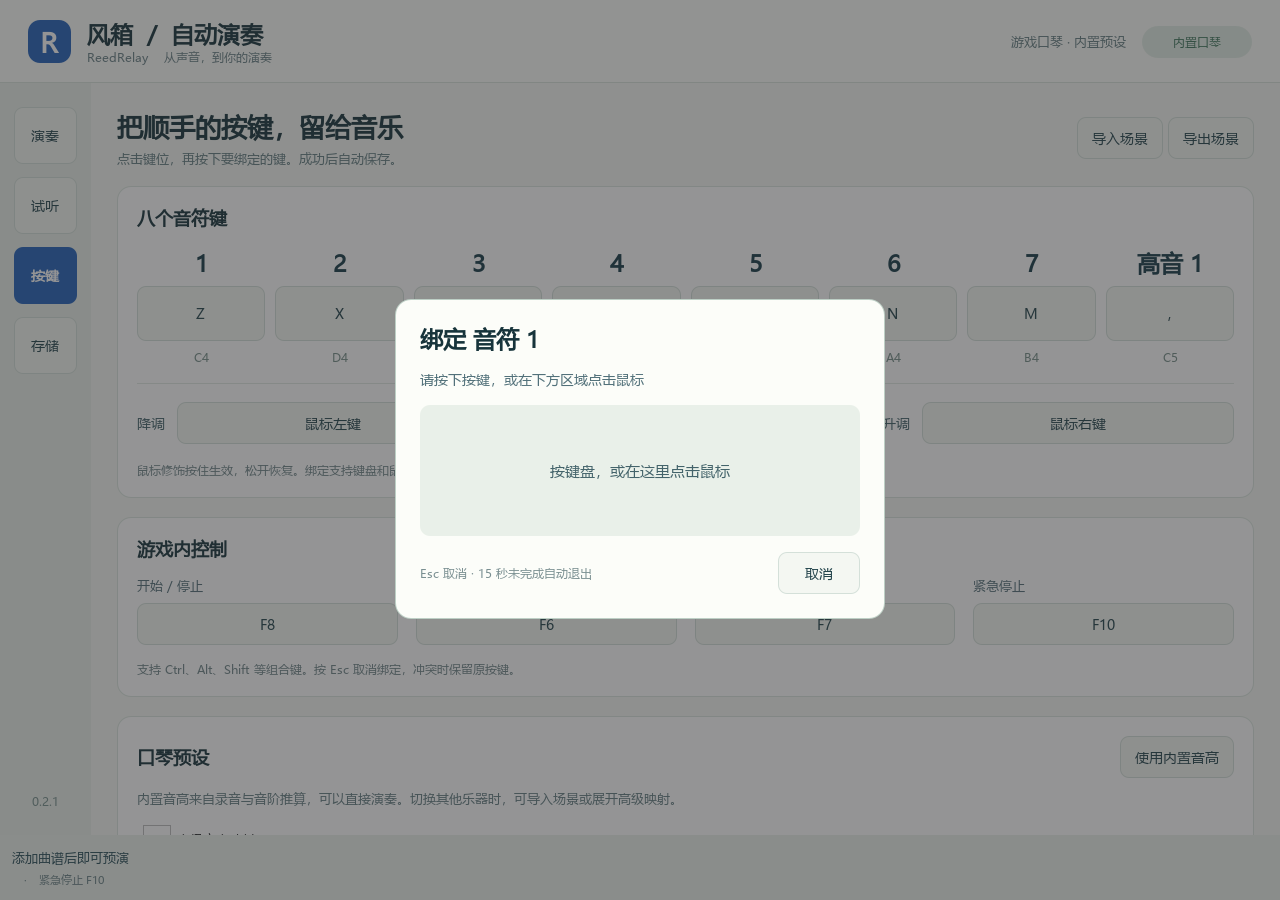
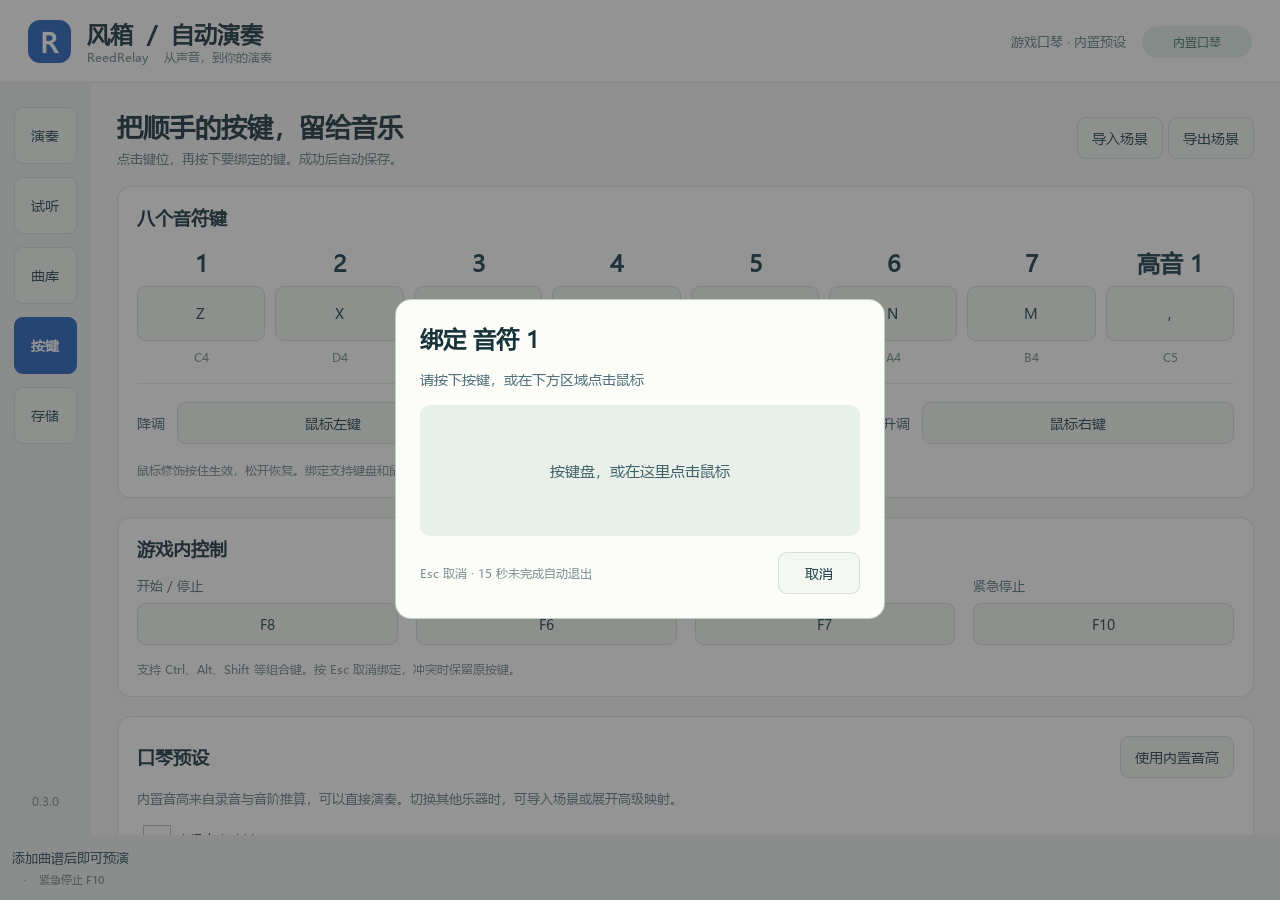
feat(ui): deliver 0.3.0 score library and direct MIDI playback

Changed region(s): [[0.0, 0.2489, 0.0625, 0.4356]]

diff --git a/src/reed_relay/ui/Library.qml b/src/reed_relay/ui/Library.qml
@@ -1,0 +1,88 @@
+import QtQuick
+import QtQuick.Controls
+import QtQuick.Layouts
+
+ScrollView {
+    id:page
+    signal requestMain()
+    signal requestAudition()
+    clip:true;contentWidth:availableWidth
+    property var entries: {
+        let query=search.text.trim().toLowerCase()
+        return bridge.libraryEntries.filter(function(song) { return !query || (song.title+" "+song.filename).toLowerCase().indexOf(query)>=0 })
+    }
+    function clock(ms) { let seconds=Math.floor(ms/1000);return Math.floor(seconds/60).toString().padStart(2,"0")+":"+(seconds%60).toString().padStart(2,"0") }
+    function noteName(pitch) { return ["C","C♯","D","D♯","E","F","F♯","G","G♯","A","A♯","B"][pitch%12]+(Math.floor(pitch/12)-1) }
+    DropArea { anchors.fill:parent;onDropped:function(drop){if(drop.hasUrls)bridge.importScoreFiles(JSON.stringify(drop.urls))} }
+    ColumnLayout {
+        width:page.availableWidth;spacing:18
+        RowLayout {
+            Layout.fillWidth:true;Layout.leftMargin:26;Layout.rightMargin:26;Layout.topMargin:24
+            ColumnLayout {
+                spacing:5
+                Label { text:"好曲谱，直接演奏";font.pixelSize:27;font.bold:true;color:"#17343b" }
+                Label { text:"导入已有曲谱，保留音高与节奏。也可以把文件直接放进曲库。";font.pixelSize:13;color:"#647e82" }
+            }
+            Item { Layout.fillWidth:true }
+            ActionButton { text:"刷新曲库";enabled:!bridge.busy;onClicked:bridge.refreshLibrary() }
+            ActionButton { objectName:"libraryImport";text:"导入曲谱";primary:true;enabled:!bridge.busy;onClicked:bridge.openScores() }
+        }
+        Panel {
+            Layout.fillWidth:true;Layout.leftMargin:26;Layout.rightMargin:26
+            ColumnLayout {
+                anchors.fill:parent;spacing:12
+                RowLayout {
+                    Label { text:"演奏库文件夹";font.pixelSize:14;font.bold:true;color:"#17343b" }
+                    Item { Layout.fillWidth:true }
+                    ActionButton { text:"打开文件夹";onClicked:bridge.showLibraryFolder() }
+                    ActionButton { objectName:"libraryChoose";text:"更换文件夹";enabled:!bridge.busy;onClicked:bridge.chooseLibrary() }
+                }
+                Field { objectName:"libraryPath";Layout.fillWidth:true;text:bridge.libraryPath;readOnly:true;font.pixelSize:13 }
+                Label { text:"支持 MIDI（.mid / .midi）与 ReedRelay JSON。外部文件导入后复制进曲库，同名文件保留双方。";Layout.fillWidth:true;wrapMode:Text.Wrap;font.pixelSize:12;color:"#647e82" }
+            }
+        }
+        Panel {
+            Layout.fillWidth:true;Layout.leftMargin:26;Layout.rightMargin:26
+            ColumnLayout {
+                anchors.fill:parent;spacing:14
+                RowLayout {
+                    Label { text:"曲目";font.pixelSize:18;font.bold:true;color:"#17343b" }
+                    Label { text:page.entries.length+" / "+bridge.libraryEntries.length+" 份";font.pixelSize:12;color:"#647e82" }
+                    Item { Layout.fillWidth:true }
+                    Field { id:search;objectName:"librarySearch";Layout.preferredWidth:260;placeholderText:"搜索曲名或文件名" }
+                    ActionButton { objectName:"libraryAddAll";text:"全部加入播放列表";visible:bridge.appMode==="player";enabled:!bridge.busy && bridge.libraryEntries.length>0;onClicked:bridge.addLibraryToPlaylist() }
+                }
+                Rectangle { Layout.fillWidth:true;height:1;color:"#e1e9e2" }
+                ListView {
+                    id:songs;objectName:"librarySongs";Layout.fillWidth:true;Layout.preferredHeight:Math.max(220,Math.min(320,count*98));clip:true;model:page.entries;spacing:0
+                    ScrollBar.vertical:ScrollBar {}
+                    delegate:Item {
+                        id:row
+                        required property var modelData
+                        required property int index
+                        width:ListView.view.width;height:98
+                        RowLayout {
+                            anchors.fill:parent;anchors.topMargin:12;anchors.bottomMargin:12;spacing:14
+                            Rectangle {
+                                width:48;height:48;radius:10;color:row.modelData.error?"#f4e8dd":"#e8f0e7"
+                                Label { anchors.centerIn:parent;text:row.modelData.error?"!":"谱";font.pixelSize:23;color:row.modelData.error?"#a66340":"#3c7066" }
+                            }
+                            ColumnLayout {
+                                Layout.fillWidth:true;spacing:5
+                                Label { Layout.fillWidth:true;text:row.modelData.title;font.pixelSize:16;font.bold:true;color:"#254b57";elide:Text.ElideRight }
+                                Label { Layout.fillWidth:true;text:row.modelData.error?row.modelData.error:row.modelData.format+"    "+page.clock(row.modelData.duration)+"    "+row.modelData.note_count+" 音符    "+page.noteName(row.modelData.minimum_pitch)+"–"+page.noteName(row.modelData.maximum_pitch);font.pixelSize:12;color:row.modelData.error?"#a66340":"#647e82";elide:Text.ElideRight }
+                                Label { Layout.fillWidth:true;text:row.modelData.filename+(row.modelData.in_playlist?"    ·    已加入播放列表":"");font.pixelSize:11;color:"#819492";elide:Text.ElideMiddle }
+                            }
+                            ActionButton { objectName:"libraryPreview"+row.index;text:"试听";enabled:!bridge.busy && !row.modelData.error;onClicked:{if(bridge.previewLibraryScore(row.modelData.path))page.requestAudition()} }
+                            ActionButton { objectName:"libraryOpen"+row.index;text:bridge.appMode==="player"?"载入演奏":"打开校对";enabled:!bridge.busy && !row.modelData.error;onClicked:{if(bridge.openLibraryScore(row.modelData.path))page.requestMain()} }
+                        }
+                        Rectangle { anchors.bottom:parent.bottom;width:parent.width;height:1;color:"#edf1ed" }
+                    }
+                    Label { anchors.centerIn:parent;visible:songs.count===0;text:bridge.libraryEntries.length?"没有匹配曲目，换个关键词试试":"曲库还没有曲谱\n点击「导入曲谱」，或拖入 MIDI / JSON 文件。";horizontalAlignment:Text.AlignHCenter;font.pixelSize:15;lineHeight:1.6;color:"#78918e" }
+                }
+                Label { Layout.fillWidth:true;wrapMode:Text.Wrap;text:bridge.appMode==="player"?"载入后，在演奏页选择游戏窗口并按启动键。播放列表支持上一首 / 下一首；移出列表保留曲库文件。":"打开校对后可编辑、试听并另存。风箱可独立读取同一个曲库，无需重新转谱。";font.pixelSize:12;color:"#71878a" }
+            }
+        }
+        Item { height:14 }
+    }
+}

diff --git a/src/reed_relay/ui/Main.qml b/src/reed_relay/ui/Main.qml
@@ -16,9 +16,9 @@ ApplicationWindow {
     palette.highlight: "#2362ba"
     palette.text: "#17343b"
     palette.buttonText: "#17343b"
-    property string page: ["settings","audition","storage"].indexOf(initialPage)>=0 ? initialPage : "main"
+    property string page: ["settings","audition","storage","library"].indexOf(initialPage)>=0 ? initialPage : "main"
     property var binding: bridge.bindingController
-    property bool pagesReady: mainLoader.status===Loader.Ready && auditionLoader.status===Loader.Ready && settingsLoader.status===Loader.Ready && storageLoader.status===Loader.Ready
+    property bool pagesReady: mainLoader.status===Loader.Ready && auditionLoader.status===Loader.Ready && settingsLoader.status===Loader.Ready && storageLoader.status===Loader.Ready && libraryLoader.status===Loader.Ready
     function reloadDraft() { if(settingsLoader.item)settingsLoader.item.reload() }
     function profileDraft() { return settingsLoader.item ? settingsLoader.item.profileDraft() : bridge.profile }
     function noteName(n) { return ["C","C♯","D","D♯","E","F","F♯","G","G♯","A","A♯","B"][((n%12)+12)%12] + (Math.floor(n/12)-1) }
@@ -87,18 +87,20 @@ ApplicationWindow {
                 anchors.top: parent.top; anchors.topMargin: 24; anchors.horizontalCenter: parent.horizontalCenter; spacing: 13
                 ActionButton { text: bridge.appMode === "player" ? "演奏" : "听谱"; primary: root.page === "main"; implicitWidth: 63; implicitHeight: 57; onClicked: root.page="main" }
                 ActionButton { text: "试听"; primary: root.page === "audition"; implicitWidth: 63; implicitHeight: 57; onClicked: root.page="audition" }
+                ActionButton { objectName:"libraryNavigation";text:"曲库";primary:root.page==="library";implicitWidth:63;implicitHeight:57;onClicked:{bridge.refreshLibrary();root.page="library"} }
                 ActionButton { text: "按键"; primary: root.page === "settings"; implicitWidth: 63; implicitHeight: 57; onClicked: { root.reloadDraft(); root.page="settings" } }
                 ActionButton { text: "存储"; primary: root.page === "storage"; implicitWidth: 63; implicitHeight: 57; onClicked: root.page="storage" }
             }
-            Label { anchors.bottom: parent.bottom; anchors.bottomMargin: 26; anchors.horizontalCenter: parent.horizontalCenter; text: "0.2.2"; color: "#78918e"; font.pixelSize: 12 }
+            Label { anchors.bottom: parent.bottom; anchors.bottomMargin: 26; anchors.horizontalCenter: parent.horizontalCenter; text: "0.3.0"; color: "#78918e"; font.pixelSize: 12 }
         }
         StackLayout {
             Layout.fillWidth:true;Layout.fillHeight:true
-            currentIndex:root.page==="storage"?3:root.page==="settings"?2:root.page==="audition"?1:0
+            currentIndex:root.page==="library"?4:root.page==="storage"?3:root.page==="settings"?2:root.page==="audition"?1:0
             Loader { id:mainLoader;sourceComponent:bridge.appMode==="player"?playerPage:converterPage }
             Loader { id:auditionLoader;source:"Audition.qml" }
             Loader { id:settingsLoader;source:"Settings.qml" }
             Loader { id:storageLoader;source:"Storage.qml" }
+            Loader { id:libraryLoader;source:"Library.qml";onLoaded:{item.requestMain.connect(function(){root.page="main"});item.requestAudition.connect(function(){root.page="audition"})} }
         }
     }
     Component {
@@ -114,7 +116,8 @@ ApplicationWindow {
                     Label { text: "准备好，下一首。"; color: "#17343b"; font.pixelSize: 27; font.bold: true }
                     Item { Layout.fillWidth: true }
                     ActionButton { text: "载入练习曲"; onClicked: bridge.loadDemo() }
-                    ActionButton { text: "+ 添加曲谱"; onClicked: bridge.openScores() }
+                    ActionButton { text: "打开曲库"; onClicked: { bridge.refreshLibrary();root.page="library" } }
+                    ActionButton { text: "导入曲谱"; onClicked: bridge.openScores() }
                 }
                 RowLayout {
                     Layout.leftMargin: 27; Layout.rightMargin: 27; Layout.fillWidth: true; spacing: 21

diff --git a/src/reed_relay/ui/Converter.qml b/src/reed_relay/ui/Converter.qml
@@ -21,6 +21,7 @@ ScrollView {
                 Muted { text: "保留原调。还原歌声旋律时，请使用含人声的原曲或 MIDI。" }
             }
             Item { Layout.fillWidth: true }
+            ActionButton { text:"导入曲谱";enabled:!bridge.busy;onClicked:bridge.openScores() }
             ActionButton { text: "恢复自动保存"; enabled: !bridge.busy; onClicked: bridge.recoverProject() }
             ActionButton { text: "关联原音"; enabled: !bridge.busy; onClicked: bridge.relinkAudio() }
             ActionButton { text: "打开工程 / MIDI"; enabled: !bridge.busy; onClicked: bridge.openProject() }

diff --git a/tests/test_library_ui.py b/tests/test_library_ui.py
@@ -1,0 +1,71 @@
+import os
+from pathlib import Path
+import time
+import pytest
+os.environ.setdefault('QT_QPA_PLATFORM', 'offscreen')
+os.environ.setdefault('QT_QUICK_BACKEND', 'software')
+os.environ.setdefault('QT_QUICK_CONTROLS_STYLE', 'Basic')
+from PySide6.QtCore import QUrl, Qt
+from PySide6.QtQml import QQmlApplicationEngine
+from PySide6.QtQuick import QQuickWindow
+from PySide6.QtTest import QTest
+from PySide6.QtWidgets import QApplication, QFileDialog
+from reed_relay.backend import Backend
+from reed_relay.core.score import Note, Score
+
+
+@pytest.mark.parametrize('mode', ['player', 'converter'])
+def test_actual_library_import_search_preview_open_and_folder_choice(tmp_path, monkeypatch, mode):
+    app = QApplication.instance() or QApplication([])
+    monkeypatch.setenv('REED_RELAY_DATA_DIR', str(tmp_path/'data'))
+    backend = Backend(mode, no_hotkeys=True)
+    backend.audition.setVolume(0)
+    directory = tmp_path/'library'; directory.mkdir()
+    backend.setLibraryPath(str(directory))
+    first, second = tmp_path/'first.json', tmp_path/'second.mid'
+    Score('First', [Note(100,400,60)], 1200).save(first)
+    Score('Second', [Note(200,500,64)], 1400).export_midi(second)
+    monkeypatch.setattr(QFileDialog, 'getOpenFileNames', lambda *args:([str(first), str(second)], ''))
+    engine = QQmlApplicationEngine()
+    engine.rootContext().setContextProperty('bridge', backend)
+    engine.rootContext().setContextProperty('initialPage', 'library')
+    warnings = []; engine.warnings.connect(lambda values:warnings.extend(str(v) for v in values))
+    engine.load(QUrl.fromLocalFile(str(Path(__file__).parents[1]/'src/reed_relay/ui/Main.qml')))
+    root = engine.rootObjects()[0]
+    app.processEvents()
+    assert root.property('pagesReady') and not warnings
+    def visual(item):
+        yield item
+        for child in item.childItems(): yield from visual(child)
+    def find(name):
+        return next(item for item in visual(root.contentItem()) if item.objectName() == name and item.isVisible())
+    def click(name):
+        item = find(name)
+        QTest.mouseClick(root, Qt.MouseButton.LeftButton, Qt.KeyboardModifier.NoModifier,
+                         item.mapToScene(item.boundingRect().center()).toPoint())
+        app.processEvents()
+    click('libraryImport')
+    assert find('librarySongs').property('count') == 2
+    search = find('librarySearch')
+    click('librarySearch')
+    for key in (Qt.Key.Key_F, Qt.Key.Key_I, Qt.Key.Key_R, Qt.Key.Key_S, Qt.Key.Key_T): QTest.keyClick(root, key)
+    app.processEvents()
+    assert find('librarySongs').property('count') == 1
+    click('libraryPreview0')
+    assert root.property('page') == 'audition' and backend.title == 'First'
+    until = time.monotonic()+8
+    while not backend.audition._loaded and time.monotonic()<until:
+        app.processEvents(); time.sleep(.01)
+    assert backend.audition._loaded and not warnings
+    backend.stopAudio()
+    click('libraryNavigation')
+    click('libraryOpen0')
+    assert root.property('page') == 'main' and backend.title == 'First'
+    click('libraryNavigation')
+    other = tmp_path/'other'; other.mkdir()
+    monkeypatch.setattr(QFileDialog, 'getExistingDirectory', lambda *args:str(other))
+    click('libraryChoose')
+    assert find('libraryPath').property('text') == str(other)
+    assert find('librarySongs').property('count') == 0 and len(list(directory.iterdir())) == 2
+    assert not warnings
+    root.hide(); backend.close(); app.processEvents()

diff --git a/src/reed_relay/app.py b/src/reed_relay/app.py
@@ -23,6 +23,7 @@ def run(mode):
     parser.add_argument("--no-hotkeys", action="store_true")
     parser.add_argument("--score")
     parser.add_argument("--transcribe")
+    parser.add_argument('--import-scores', nargs='+', help='导入已有 MIDI/JSON 到配置的曲库，不启动界面；--output 可保存报告')
     parser.add_argument("--repair-score", help="修整已有曲谱碎音并另存，需 --output")
     parser.add_argument("--extract-score", help="从曲谱完整候选重新提取主旋律，需 --output")
     parser.add_argument("--minimum-pitch", type=int, default=0)
@@ -38,6 +39,25 @@ def run(mode):
     args = parser.parse_args()
     repair_options = {'minimum_ms':args.short_note_ms,'gap_ms':args.gap_ms,'merge_repeats':args.merge_repeats}
     melody_options = {'minimum_pitch':args.minimum_pitch, 'maximum_pitch':args.maximum_pitch}
+    if args.import_scores:
+        import json
+        from .storage import Storage
+        from .core.score import atomic_json
+        from .library import ScoreLibrary, default_library
+        storage = Storage()
+        preference_file = storage.directory/'preferences.json'
+        preferences = json.loads(preference_file.read_text(encoding='utf-8')) if preference_file.exists() else {}
+        library = ScoreLibrary(preferences.get('library_directory') or default_library(storage.directory))
+        imported, failures = [], []
+        for path in args.import_scores:
+            try:
+                result = library.import_score(path)
+                imported.append({'source':path, 'path':str(result.path), 'created':result.created})
+            except Exception as error: failures.append({'source':path, 'error':str(error)})
+        report = {'directory':str(library.directory), 'imported':imported, 'failures':failures, 'entries':library.scan()}
+        if args.output: atomic_json(args.output, report)
+        else: print(json.dumps(report, ensure_ascii=False))
+        return 1 if failures else 0
     if args.extract_score:
         if not args.output: parser.error('--extract-score 需要 --output')
         from .core.score import Score

diff --git a/tests/test_library.py b/tests/test_library.py
@@ -135,3 +135,23 @@ def test_midi_tempo_changes_and_overlaps_survive_import(tmp_path):
     imported = ScoreLibrary(tmp_path/'library').import_score(source)
     notes = read_score(imported.path).notes
     assert [(n.midi_pitch, n.start_ms, n.end_ms) for n in notes] == [(60,0,1500),(64,250,2000)]
+
+
+def test_data_directory_move_keeps_embedded_library_and_playlist_usable(tmp_path, monkeypatch):
+    app = QApplication.instance() or QApplication([])
+    import reed_relay.storage as storage_module
+    monkeypatch.setattr(storage_module, 'application_root', lambda:tmp_path/'program')
+    monkeypatch.setenv('REED_RELAY_DATA_DIR', str(tmp_path/'data'))
+    backend = Backend('player', no_hotkeys=True)
+    source = tmp_path/'source.json'
+    Score('Move', [Note(0, 400, 64)]).save(source)
+    backend.importScoreFiles(json.dumps([source.as_uri()]))
+    old_library = Path(backend.libraryPath)
+    backend.storage.fixed = False
+    new_data = tmp_path/'new-data'
+    backend.setStoragePath(str(new_data))
+    assert Path(backend.libraryPath) == new_data/'演奏库'
+    assert len(backend.libraryEntries) == 1 and old_library.joinpath('source.json').exists()
+    assert backend.openLibraryScore(backend.libraryEntries[0]['path'])
+    assert all(Path(item['path']).is_relative_to(new_data) for item in backend.playlist)
+    backend.close()

diff --git a/src/reed_relay/__init__.py b/src/reed_relay/__init__.py
@@ -1,3 +1,3 @@
 """ReedRelay: independent score conversion and performance applications."""
 
-__version__ = "0.2.2"
+__version__ = "0.3.0"

diff --git a/README.md b/README.md
@@ -12,6 +12,8 @@
 
 两者可分别安装和启动，通过 `.reedscore.json` 交换结果。风箱不加载转谱模型；听谱无需启动游戏。
 
+**0.3 新增**：共享「曲库」页面，导入、搜索与直接试听已有 MIDI/JSON 曲谱，风箱一键加入播放列表。用户当前的 `样例文件/示例曲谱` 作为演奏库；可更换目录。导入复制文件，相同内容复用，同名不同内容保留编号副本，原音高与时间不改。
+
 **0.2 新增**：两个模块都有口琴曲谱试听，支持暂停、定位、循环与保持音高的变速；键位点击后直接捕获并保存。内置口琴预设替代调音流程，原调音页和引导入口已移除。连续换音不安排换气，单个长音可保留或选择分段重奏。
 
 **0.2.1 修正**：主旋律提取考虑连续性，减少候选交接造成的碎音；已有曲谱可调阈值进行连贯修整并撤销。新增「存储」页选择保存目录，默认数据放在程序旁，旧 AppData 数据复制迁入并保留原文件。程序位于 C 盘且尚未选过目录时，先提示选择保存位置。
@@ -27,6 +29,7 @@
 ![口琴试听](docs/screenshots/audition.png)
 ![点击绑定](docs/screenshots/binding.png)
 ![保存位置](docs/screenshots/storage.png)
+![曲库](docs/screenshots/library.png)
 
 截图来自实际运行程序，展示项目原创练习曲。
 
@@ -58,6 +61,8 @@ Windows 10/11，64 位 Python 3.12 推荐（支持范围 3.10–3.13；当前验
 1. **听谱**：选择或拖入音频，选择完整候选或主旋律草稿，开始转谱。点击音符试听和修改，保存 `.reedscore.json`。原始候选可恢复；页面下方包含编辑、问题定位和导出操作，可滚动查看。
 2. **试听与按键**：打开「试听」用口琴检查曲谱；打开「按键」，点击键位后直接按下新键即可保存。内置 C4–C5、−12 / +1 / +12 预设来自录音与音阶推断，可直接使用；其他乐器可导入场景或编辑高级映射。
 3. **风箱**：添加曲谱，先预演并处理问题；选择游戏窗口，关闭预演，回到游戏按 F8 开始。停止和失焦会释放程序按下的按键。
+
+已有别人做好的曲谱：打开「曲库」→「导入曲谱」（支持多选或拖入 MIDI / ReedRelay JSON）→「试听」或「载入演奏」。当前演奏库是 `样例文件/示例曲谱`；直接把文件放进该目录后点击「刷新曲库」也能使用。风箱的「全部加入播放列表」便于 F6/F7 切歌，移出播放列表不删除文件。无需运行音频转谱模型。
 
 已有曲谱听起来碎：打开「试听」，先用默认的 **80 ms 碎音阈值 / 50 ms 衔接间隙**，点击「连贯修整」再试听。快速装饰音较多时降低阈值或设为 0；修整可撤销，点击「导出曲谱」保存结果。「重新提取主旋律」用完整候选重新生成草稿，也可撤销。
 

diff --git a/docs/USER_GUIDE.md b/docs/USER_GUIDE.md
@@ -1,5 +1,20 @@
 # 使用手册
 
+## 曲库：直接使用现成曲谱
+
+两个模块都有左侧「曲库」入口。风箱主页和听谱上方也有「导入曲谱」，支持 `.mid`、`.midi` 和 ReedRelay `.reedscore.json/.json`。
+
+1. 当前用户指定的目录是 `样例文件/示例曲谱`，源码启动和当前本地便携包共用。首次安装时优先使用程序旁已有的该目录或 `示例曲谱`；都不存在则使用已选数据目录中的 `演奏库`，不会额外写到 C 盘。
+2. 点击「导入曲谱」，可多选文件或拖入曲库页。验证成功的文件复制进当前曲库，原文件不移动；同内容再次导入复用已有文件，同名不同内容生成 `名称 (2)` 等副本。某一首错误不会阻止其他有效曲谱导入，状态栏显示结果。
+3. 曲库按标题排列，展示文件格式、时长、音符数、音区和原文件名。搜索匹配曲名或文件名。直接在文件夹增删文件后点击「刷新曲库」，或重新进入曲库页。
+4. 「试听」打开共享口琴试听页并播放当前谱。在风箱中，该曲同时加入播放列表；在听谱中，可进一步打开校对、修改并另存。MIDI 曲谱不会被当成音频重新识别，也不尝试播放成“原音”。
+5. 风箱点击「载入演奏」进入演奏页；「全部加入播放列表」加入所有有效曲目并去重。选择游戏窗口、关闭预演，使用已有启停、上一首、下一首热键。默认 F8 / F6 / F7，可自定义。载入曲谱先停止旧演奏和试听。
+6. 「更换文件夹」选择其他曲库，设置保存在数据目录的偏好中。切换不移动或删除旧曲库，原有播放队列仍保留；另一个已打开的模块需切换目录或重启读取设置。「打开文件夹」可打开资源管理器，也可从只读路径框复制路径。
+
+曲库和播放列表分别保存：从播放列表移除不删除曲库文件；文件从曲库删除后，旧队列项载入时提示失效。导入保留原谱音高、时值、速度变化和重叠音，不自动移调、简化或删除音域外音。和弦/多声部仍由演奏检查提示，必要时明确提取主旋律或筛选声部；第三方专有格式、PDF/图片简谱不作为 MIDI/JSON 导入。
+
+环境变量 `REED_RELAY_DATA_DIR` 用于隔离运行时，未设置独立曲库路径则使用该目录中的 `演奏库`。修改数据保存目录时，放在数据目录内部的曲库会随已有数据一起复制、更新路径，原目录保留；外部曲库保持原路径。
+
 ## 听谱：从音频到可校对曲谱
 
 1. 选择音频或拖入文件，可一次选择多首。主旋律优先生成单声部草稿；完整候选保留所有识别音符。

diff --git a/docs/PROGRESS.md b/docs/PROGRESS.md
@@ -1,5 +1,16 @@
 # 实施与验证进度
 
+## 2026-10-02 曲谱导入与演奏库（0.3.0）
+
+- 已将用户指定的 `样例文件/示例曲谱` 设为实际曲库，保留既有保存目录 `样例文件/曲谱`。工作期间示例增加至 **18 首 MIDI、8,911 个音符**，全部读取成功并加入用户播放列表，当前映射下无阻断项；未向游戏发送测试输入。
+- 两模块都有独立「曲库」页面，支持目录选择、搜索、刷新、文件夹打开、多选/拖入导入、口琴试听与打开编辑；风箱支持载入演奏、全部加入播放列表及原有热键切歌。曲谱列表与播放队列分别保存，移出队列不删除曲库文件。
+- 外部 MIDI/JSON 验证后复制进曲库；按内容去重，同名不同内容另存编号副本，保持源文件和已有文件。损坏/空曲谱显示错误，批量导入的有效文件继续完成；取消文件选择保持现有工作。
+- MIDI 直接按标准音符事件及 tempo 变化读取，保留原音高、时间和重叠音，不再当作原音频排入转谱。当前示例的标准 MIDI 轨已足够，无需其他项目的专有播放器。
+- 曲库目录与播放列表持久化共享；数据目录内的曲库随存储迁移复制并更新路径，外部曲库保持原路径。迁移测试使用独立的临时项目配置，正式位置记录仍指向用户选定目录。
+- 完整回归 **101 项通过**，涵盖内容去重、同名保护、原文件移走后的读取、MIDI 变速/和弦保留、混合成功/失败导入、取消/保存失败、目录迁移，以及两个模块的真实 QML 导入、搜索、试听、打开与目录选择。
+- 两份独立 EXE 构建成功。`packaging/smoke.ps1` 验证两包导入同一曲库、重复导入复用、曲目数量/时值/音域、11 张界面截图、16 音原创测试音转谱及原有试听/修整/重新提取。最终 QML 字体和列表高度同步并在打包版检查，18 首列表可滚动，默认窗口下操作栏完整。
+- 实际示例曲谱与导入结果继续仅保留本地；公开文档截图使用原创练习曲。核心阶段已推送 `3d442c0`，界面和交付随本记录推送。
+
 ## 2026-10-02 主旋律与原调修正（0.2.2）
 
 - 已研究用户提供的 Delta-Force-Harmonica：借鉴完整候选、单声部筛选、试听校对的流程，独立实现局部音区与休止路径；未复制项目源码或引入符号模型权重。

diff --git a/docs/FORMAT.md b/docs/FORMAT.md
@@ -16,4 +16,6 @@
 
 `melody_minimum` / `melody_maximum` 保存旋律候选的 MIDI 音域（默认 0 / 127），不改音高；新转写的 `metadata.melody_selection` 记录 `register-path-v2` 与范围。完整候选不受范围影响。`metadata.pitch_policy` 说明新 Basic Pitch 候选按 MIDI 半音发声，`pitch_bends_third_semitone` 仅保留原始分析数据，不直接转成可信的 `Note.cents`。手工和其他来源的音分仍由 `Note.cents` 保存。
 
+`preferences.json.library_directory` 为两个模块共享的本地曲库目录。曲库直接索引该文件夹及子文件夹的 MIDI/JSON 文件，不额外维护易失效的索引文件；无效曲谱仍显示错误。播放列表保存绝对曲谱路径，不删除源曲库文件。外部导入按内容 SHA-256 去重，同名不同内容通过独占创建编号副本避免覆盖；曲谱数据不转换、不移调。
+
 程序旁 `storage-location.json` 的 `directory` 保存数据目录绝对路径；该文件和用户数据不提交 Git。切换目录复制持久文件并重写目录内绝对路径，不覆盖有不同内容的目标文件，不搬走或删除原目录。
